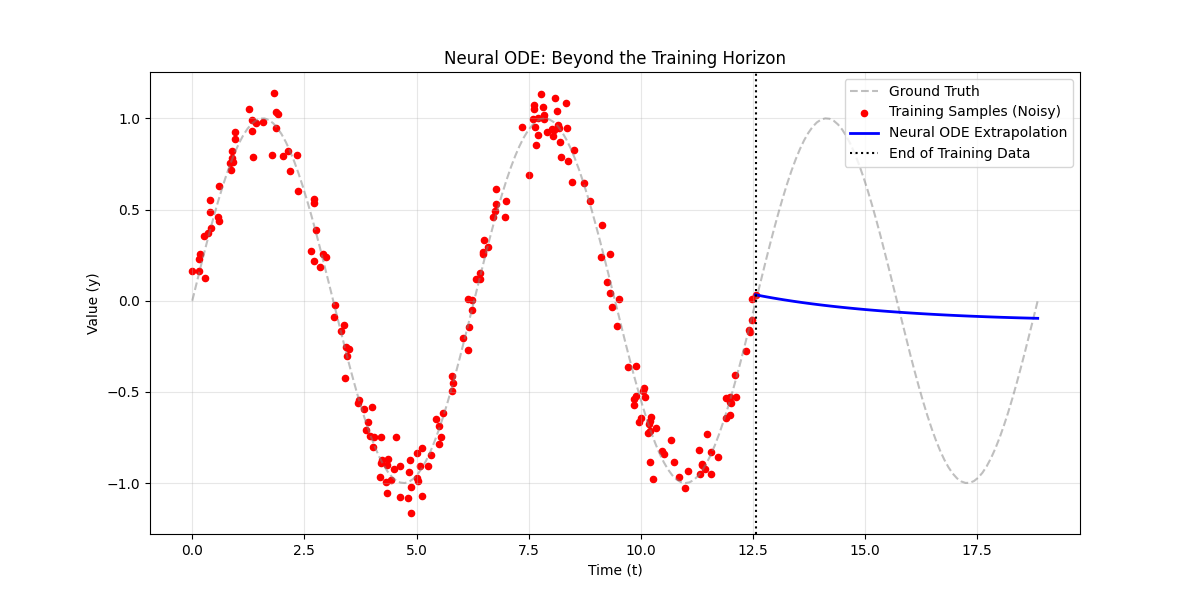
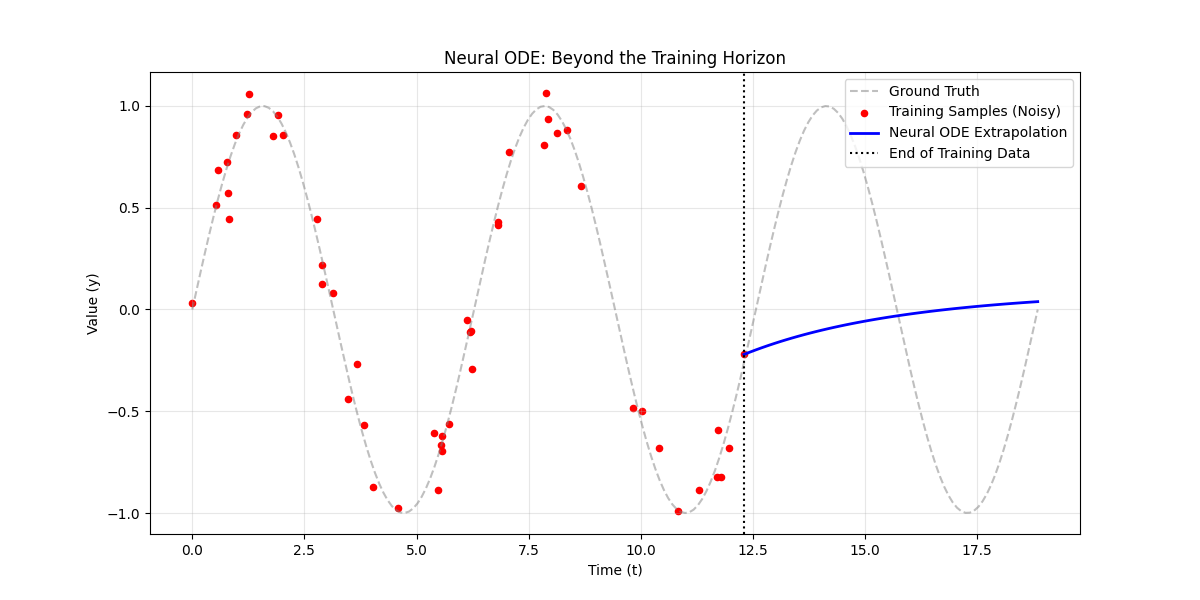
switching to autonomous approach
the approach of conditioning on time was not working as it was leading to memorization.

diff --git a/models/neural_ode.py b/models/neural_ode.py
@@ -4,14 +4,14 @@ from torchdiffeq import odeint_adjoint as odeint
 import matplotlib.pyplot as plt
 import numpy as np
 import os
-
+ 
 class ODEFunc(nn.Module):
     def __init__(self):
         super(ODEFunc, self).__init__()
 
         #MLP
         self.net = nn.Sequential(
-            nn.Linear(2, 50),        #2 here because we are concatenating time. 
+            nn.Linear(3, 50),        #3 here because we are concatenating periodic time function. 
             nn.Tanh(), 
             nn.Linear(50, 1)
         )
@@ -24,6 +24,7 @@ class ODEFunc(nn.Module):
         concatenated = torch.cat([y, t_vec], dim=1)
 
         return self.net(concatenated)
+
     
 def train_ode(model, epochs, optimizer, criterion, t, y):
     losses = []
@@ -67,8 +68,8 @@ def plot_loss(losses):
     plt.savefig(full_path)
     print(f"Plot saved to: {full_path}")
 
-def extrapolate(model, t_train, y_train):
-    t_future = torch.linspace(float(t_train[-1]), 6 * torch.pi, 50)
+def extrapolate(model, t_train, y_train, device):
+    t_future = torch.linspace(float(t_train[-1]), 6 * torch.pi, 50).to(device)
 
     with torch.no_grad():
         #Use last known point as the new initial condition
@@ -76,7 +77,7 @@ def extrapolate(model, t_train, y_train):
 
     return t_future, y_future
 
-def plot_vector_field(model, file_name, t_range=(0, 6*np.pi), y_range=(-1.5, 1.5)):
+def plot_vector_field(model, file_name, device, t_range=(0, 6*np.pi), y_range=(-1.5, 1.5)):
     #create a grid of points
     t_grid = np.linspace(t_range[0], t_range[1], 20)
     y_grid = np.linspace(y_range[0], y_range[1], 20)
@@ -90,8 +91,8 @@ def plot_vector_field(model, file_name, t_range=(0, 6*np.pi), y_range=(-1.5, 1.5
     with torch.no_grad():
         for i in range(len(t_grid)):
             for j in range(len(y_grid)):
-                t_val = torch.tensor([[t_grid[i]]]).float()
-                y_val = torch.tensor([[y_grid[j]]]).float()
+                t_val = torch.tensor([[t_grid[i]]]).float().to(device)
+                y_val = torch.tensor([[y_grid[j]]]).float().to(device)
 
                 # The model outputs the derivative
                 dy_dt = model(t_val, y_val)
@@ -120,7 +121,7 @@ def plot_vector_field(model, file_name, t_range=(0, 6*np.pi), y_range=(-1.5, 1.5
 
     return
 
-def plot_extrapolation(t_train, y_train, t_future, y_future, file_name):
+def plot_extrapolation(t_train, y_train, t_future, y_future, file_name, device):
     #Generate Ground Truth for the whole range
     t_total = torch.linspace(0, 6 * np.pi, 200)
     y_total = torch.sin(t_total)
@@ -131,14 +132,14 @@ def plot_extrapolation(t_train, y_train, t_future, y_future, file_name):
     plt.plot(t_total.numpy(), y_total.numpy(), color='gray', label='Ground Truth', linestyle='--', alpha=0.5)
     
     #Plot Training Data
-    plt.scatter(t_train.numpy(), y_train.numpy(), color='red', label='Training Samples (Noisy)', s=20)
+    plt.scatter(t_train.cpu().numpy(), y_train.cpu().numpy(), color='red', label='Training Samples (Noisy)', s=20)
     
     #Plot Extrapolation
     #Note: we squeeze because odeint output is [time, batch, dim]
-    plt.plot(t_future.numpy(), y_future.detach().numpy().squeeze(), 
+    plt.plot(t_future.cpu().numpy(), y_future.detach().cpu().numpy().squeeze(), 
              color='blue', label='Neural ODE Extrapolation', linewidth=2)
 
-    plt.axvline(x=t_train[-1].item(), color='black', linestyle=':', label='End of Training Data')
+    plt.axvline(x=t_train[-1].cpu().item(), color='black', linestyle=':', label='End of Training Data')
     plt.title("Neural ODE: Beyond the Training Horizon")
     plt.xlabel("Time (t)")
     plt.ylabel("Value (y)")
@@ -159,3 +160,38 @@ def plot_extrapolation(t_train, y_train, t_future, y_future, file_name):
     print(f"Plot saved to: {full_path}")
 
     return
+
+def plot_learned_dynamics_vs_true(model, device, t_train_end, t_max=30.0, n_points=500, y_dummy_value=0.0, figsize=(10, 6), file_name=None):
+    model.eval()
+    with torch.no_grad():
+        t_test = torch.linspace(0, t_max, n_points).unsqueeze(1).to(device)   # shape: (N, 1)
+        y_dummy = torch.full_like(t_test, y_dummy_value)
+        inputs = torch.cat([y_dummy, t_test], dim=1)
+        predicted_dydt = model.net(inputs).squeeze().cpu().numpy()
+    
+    true_dydt = np.cos(t_test.squeeze().cpu().numpy())
+    
+    plt.figure(figsize=figsize)
+    plt.plot(t_test.cpu().numpy(), predicted_dydt, label='Learned dy/dt = f(y,t)', linewidth=2)
+    plt.plot(t_test.cpu().numpy(), true_dydt, '--', label='True cos(t)', linewidth=1.5)
+    plt.axvline(x=float(t_train_end), color='red', linestyle=':', 
+                label='End of training data', alpha=0.7)
+    
+    plt.title("What the Neural ODE Actually Learned: dy/dt vs Time")
+    plt.xlabel("Time t")
+    plt.ylabel("dy/dt")
+    plt.legend()
+    plt.grid(True, alpha=0.3)
+    
+    script_path = os.path.abspath(__file__)
+    script_dir = os.path.dirname(script_path)
+    project_root = os.path.dirname(script_dir)
+    
+    results_dir = os.path.join(project_root, 'Results')
+    os.makedirs(results_dir, exist_ok=True)
+    
+    full_path = os.path.join(results_dir, file_name)
+
+    #Save the figure
+    plt.savefig(full_path)
+    print(f"Plot saved to: {full_path}")

diff --git a/dataset/sine.py b/dataset/sine.py
@@ -7,33 +7,42 @@ def generate_irregular(n_samples, t_max=4*np.pi):
     t = np.sort(np.random.rand(n_samples) * t_max)
     t[0] = 0
 
-    #calculate the sine values
+    # Calculate position and velocity
     y = np.sin(t)
+    v = np.cos(t)  # velocity = dy/dt
 
-    #Add noise to make it more "real"
+    # Add noise to make it more "real"
     y_noise = y + 0.1 * np.random.randn(n_samples)
+    v_noise = v + 0.1 * np.random.randn(n_samples)
 
-    #Convert to tensors
+    # Stack into state: [position, velocity]
+    state = np.stack([y_noise, v_noise], axis=1)  # Shape: [n_samples, 2]
+
+    # Convert to tensors
     t_tensor = torch.tensor(t).float()
-    y_tensor = torch.tensor(y_noise).float().unsqueeze(-1) #Shape: [n_samples, feature_dim (1)]
+    state_tensor = torch.tensor(state).float()  # Shape: [n_samples, 2]
 
-    return t_tensor, y_tensor
+    return t_tensor, state_tensor
 
-def plot_samples(t, y, title, file_name):
-    #Generate a smooth line for sine wave
+
+def plot_samples(t, state, title, file_name):
+    # Extract position from state
+    y = state[:, 0]  # First column is position
+    
+    # Generate a smooth line for sine wave
     t_smooth = np.linspace(0, float(t.max()), 200)
     y_true = np.sin(t_smooth)
 
     plt.figure(figsize=(10, 5))
 
-    #plot ground truth
-    plt.plot(t_smooth, y_true, label="True Function", color="red", linestyle = "--", alpha=0.6)
+    # Plot ground truth
+    plt.plot(t_smooth, y_true, label="True Function", color="red", linestyle="--", alpha=0.6)
 
-    #PLot the regular, noisy samples
+    # Plot the irregular, noisy samples (only position)
     plt.scatter(t.numpy(), y.numpy(), color="blue", label="Irregular Observations", s=18)
     plt.title(title)
     plt.xlabel("Time (t)")
-    plt.ylabel("Value (y)")
+    plt.ylabel("Position (y)")
     plt.legend()
     plt.grid(True, alpha=0.3)
 
@@ -46,12 +55,12 @@ def plot_samples(t, y, title, file_name):
     
     full_path = os.path.join(results_dir, file_name)
 
-    #Save the figure
+    # Save the figure
     plt.savefig(full_path)
     print(f"Plot saved to: {full_path}")
 
 
-#Testing generation
+# Testing generation
 if __name__ == '__main__':
-    t, y = generate_irregular(50)
-    plot_samples(t, y, title="Test", file_name="test.png")
+    t, state = generate_irregular(50)
+    plot_samples(t, state, title="Test", file_name="test.png")

diff --git a/train_neural_ode.py b/train_neural_ode.py
@@ -1,24 +1,37 @@
 import torch
-from models.neural_ode import ODEFunc, train_ode, plot_loss, extrapolate, plot_vector_field, plot_extrapolation
+from models.neural_ode import ODEFunc, train_ode, plot_loss, extrapolate, plot_vector_field, plot_extrapolation, plot_learned_dynamics_vs_true
 from dataset.sine import generate_irregular
+
+# Device setup (GPU if available, else CPU)
+device = torch.device("cuda" if torch.cuda.is_available() else "cpu")
+print(f"Using device: {device}")
 
 #Load Data
 print("Loading Data...")
-t_train, y_train = generate_irregular(200)
-t_train, _ = torch.sort(t_train)
+t_train, y_train = generate_irregular(50)
+
+# Sort both t and y together
+sorted_indices = torch.argsort(t_train)
+t_train = t_train[sorted_indices]
+y_train = y_train[sorted_indices]
+
+# Move data to device
+t_train = t_train.to(device)
+y_train = y_train.to(device)
 print("Data Loaded!")
 
 #Create model, optimizer and criterion
-model = ODEFunc()
-optimizer = torch.optim.Adam(model.parameters(), lr=0.01)
+model = ODEFunc().to(device)
+optimizer = torch.optim.Adam(list(model.parameters()), lr=0.005)
 criterion = torch.nn.MSELoss()
 
 #Training
 print("\nTraining Neural ODE...")
-losses = train_ode(model, 200, optimizer, criterion, t_train, y_train)
+losses = train_ode(model, 100, optimizer, criterion, t_train, y_train)
 
 #Plotting loss
 plot_loss(losses)
-t_future, y_future = extrapolate(model, t_train, y_train)
-plot_vector_field(model, file_name="Vector Field for Sine Wave (100 Samples).png")
-plot_extrapolation(t_train, y_train, t_future, y_future, file_name="Extrapolation for Sine Wave (100 Samples).png")
+t_future, y_future = extrapolate(model, t_train, y_train, device)
+plot_vector_field(model, "Vector Field for Sine Wave (100 Samples).png", device)
+plot_extrapolation(t_train, y_train, t_future, y_future, "Extrapolation for Sine Wave (100 Samples).png", device)
+plot_learned_dynamics_vs_true(model, device, t_train_end=4 * torch.pi, t_max=30.0, n_points=500, y_dummy_value=0.0, figsize=(10, 6), file_name="Learned Dynamics v True (100 Samples).png")
